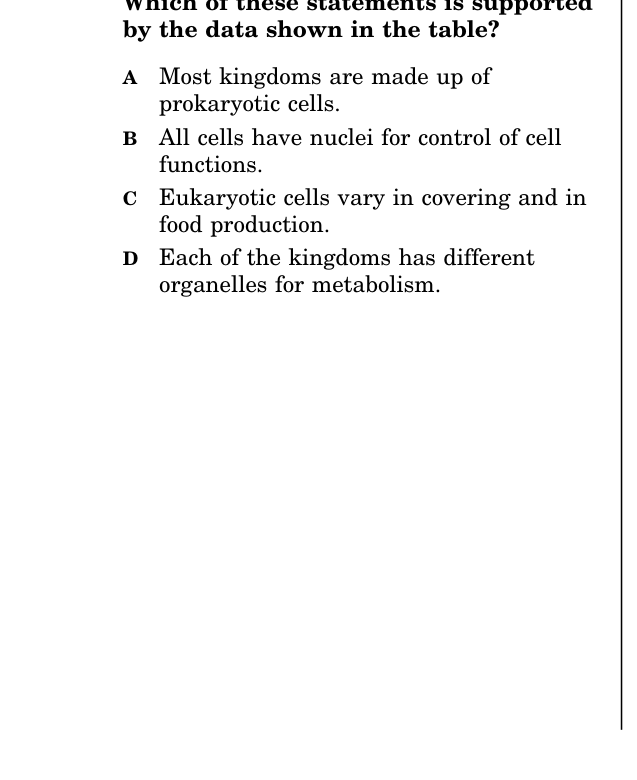
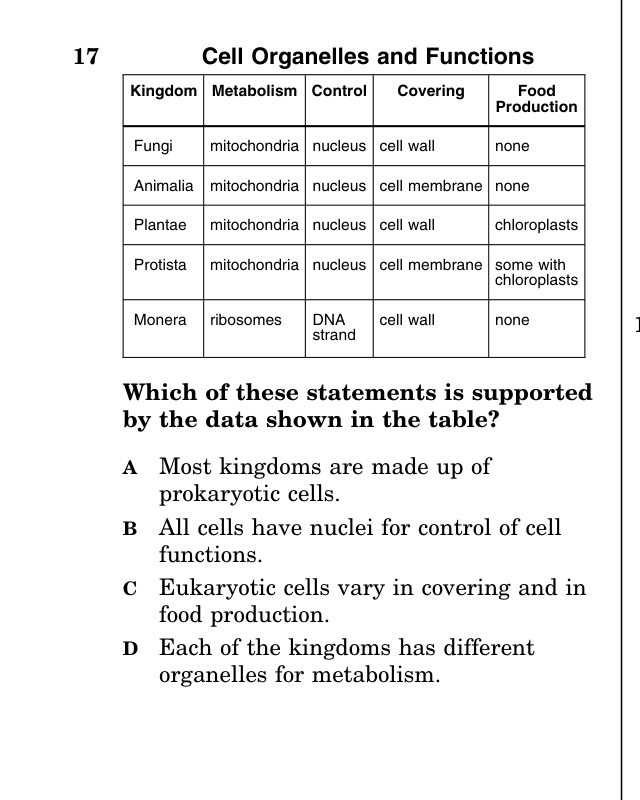
Fix 2001-17 crop (include cell-features table) and wire into unit-3
The auto-layout's equal halves put Q17's crop box too low, missing
the Cell Organelles and Functions table that sits above the stem.
2001 page 9 actually splits left column ~1/3 (Q16) + ~2/3 (Q17),
not halves.

Added an OVERRIDES dict in crop-images-v2.py for per-question
custom crop boxes. 2001-17 now maps to a (0, 420, 640, 1220) region
that captures the full table plus stem plus all four options.

Wired the re-cropped image into unit-3 Q3 via sol-img-wrap.

diff --git a/sol-prep/unit-3.html b/sol-prep/unit-3.html
@@ -618,6 +618,7 @@ body{font-family:"Source Sans 3",sans-serif;background:var(--gray-50);color:var(
 
       <div class="qq gate-q" data-ans="a" data-panel="1" data-std="BIO.3a">
         <div class="q-stem"><span class="q-num">3</span> (2001-17) A data table comparing cell features across kingdoms shows that eukaryotic cells vary in covering and food production. This supports which part of cell theory? <span class="q-tag">BIO.3a</span></div>
+        <div class="sol-img-wrap"><img class="sol-img" src="images/questions/2001-17.png" alt="Cell Organelles and Functions table comparing five kingdoms across metabolism, control, covering, food production" loading="lazy"></div>
         <ul class="qopts">
           <li class="qo" data-v="a" onclick="gateAnswer(this)"><div class="ol">A</div>All cells have the same basic composition but differ in structure</li>
           <li class="qo" data-v="b" onclick="gateAnswer(this)"><div class="ol">B</div>Cells can only come from other cells</li>

diff --git a/sol-prep/tools/crop-images-v2.py b/sol-prep/tools/crop-images-v2.py
@@ -230,6 +230,18 @@ maps = {
     2015: build_2015_map(),
 }
 
+# Per-question crop overrides for cases where the generic layout misses content.
+# Format: {(year, qnum): (page, (x1, y1, x2, y2))}
+# Typical reason: unequal vertical split on a page (e.g., a question with a big
+# data table needs more height than the auto-layout's equal slots allow).
+OVERRIDES = {
+    # 2001 p9: Q16 is small + Q17 has a big cell-features table that needs 2/3 of
+    # the left column. Auto-halves put Q17's crop too low, missing the table.
+    (2001, 17): (9, (0, 420, 640, 1220)),
+}
+for (year, qnum), mapping in OVERRIDES.items():
+    maps.setdefault(year, {})[qnum] = mapping
+
 # ── Crop each image-bearing question ──
 success = 0
 failed = []
